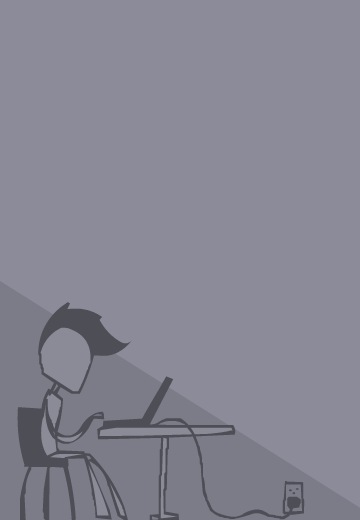
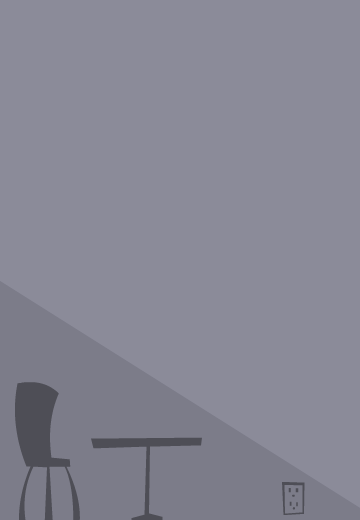
Coffeehouse graphics

Changed region(s): [[0.0306, 0.5846, 0.8556, 1.0], [0.1222, 0.9231, 0.1528, 1.0], [0.0611, 0.8923, 0.0917, 0.9538]]

diff --git a/js/game/menu.js b/js/game/menu.js
@@ -2,7 +2,13 @@ function Start(){
 
 	$ = {};
 	
+	/////// SET UP SCENE ////////
+
 	Show("background","coffeehouse");
+	Show("cup","cup_steam",{x:44,y:359});
+	Show("nicky","coffee_nicky_still");
+
+	//////////////////////////////
 
 	N("<b>COMING OUT SIMULATOR 2014</b>");
 	N("A half-true game about half-truths.");
@@ -23,7 +29,13 @@ function Start(){
 
 function Play(message){
 	
+	Show("nicky","coffee_nicky_drink");
+	Show("cup",null);
+
 	p(message);
+
+	Show("nicky","coffee_nicky_still");
+	Show("cup","cup_steam");
 
 	// Asked neither
 	if(!$.asked_about && !$.asked_credits){
@@ -58,11 +70,11 @@ function Play(message){
 			N("No.");
 			Play_2();
 		},
-		"Apparently, with you on a laptop.": function(message){
+		"Apparently, with you redditing at Starbucks.": function(message){
 			$.main_menu_convo_1 = 2;
 
 			p(message);
-			N("Hey, I'm busy transforming my personal coming-of-age story into this game you're playing right now.");
+			N("Hey, I'm coding on this laptop. Turning my coming-of-age story into the game you're playing right now.");
 			p("Naw, you're probably procrastinating.");
 			N("Look who's talking.");
 			p("Touché, douché.");
@@ -145,8 +157,25 @@ function Play_3(){
 	}
 	N(whatISay);
 
+	Show("nicky","coffee_nicky_drink");
+	Show("cup",null);
+
 	p("Hey, I just said that!");
 
+	// HACK - Just clear dialogue & stuff.
+	queue(function(){
+		dialogueDOM.innerHTML = "";
+		dialogueDOM.style.top = "20px";
+		dialogueDOMOffset = 20;
+		choicesDOM.innerHTML = "";
+	},0);
+
+	Wait(500);
+	Show("nicky","coffee_nicky_throw");
+	Wait(1000);
+	Show("nicky","coffee_nicky_still_2");
+	Wait(500);
+	
 	N("When you play...");
 	N("Choose your words wisely.");
 	N("Every character will remember everything you say. Or don't say.");
@@ -164,12 +193,18 @@ function Play_3(){
 function Credits(message){
 
 	$.asked_credits = true;
+
+	Show("nicky","coffee_nicky_drink");
+	Show("cup",null);
 	
 	if($.asked_about){
 		p(message);
 	}else{
 		p("Who are you?");
 	}
+
+	Show("nicky","coffee_nicky_still");
+	Show("cup","cup_steam");
 	
 	N("Ah, how rude of me! Let me introduce myself.");
 	N("Hi, I'm Nicky Case.");
@@ -216,7 +251,13 @@ function About(message){
 
 	$.asked_about = true;
 
+	Show("nicky","coffee_nicky_drink");
+	Show("cup",null);
+
 	p(message);
+
+	Show("nicky","coffee_nicky_still");
+	Show("cup","cup_steam");
 
 	if($.asked_credits){
 		N("I wanted to tell my story.");

diff --git a/js/config/art.js b/js/config/art.js
@@ -1,6 +1,24 @@
 Background("coffeehouse","img/backgrounds/coffeehouse.png");
+Background("coffeehouse_2","img/backgrounds/coffeehouse_2.png");
+
 Background("bedroom","img/backgrounds/bedroom.png");
 Background("dinner","img/backgrounds/dinner.png");
+
+////////// COFFEE /////////////
+
+Still("coffee_nicky_still","img/stills/coffee_nicky_still.png");
+Still("coffee_nicky_still_2","img/stills/coffee_nicky_still_2.png");
+Still("coffee_nicky_drink","img/stills/coffee_nicky_drink.png");
+Still("coffee_nicky_throw","img/stills/coffee_nicky_throw.png");
+
+Sprite("cup_steam",{
+	src: "img/sprites/cup_steam.png",
+	width:80, height:80,
+	frames:4, fps:2
+});
+
+
+////////// DINNER /////////////
 
 Still("dinner_table","img/stills/dinner_table.png");
 Still("dinner_table_2","img/stills/dinner_table_2.png");

diff --git a/index.html b/index.html
@@ -59,29 +59,19 @@ window.onload = function(){
 	    "top_or_bottom": "bottom",
 	    "promise_silence": "no",
 	    
-	    /*"grounded": 0,
+	    "grounded": 0,
 	    "tried_talking_about_it": true,
 	    "father_oblivious": false,
 	    "punched": true,
 	    
 	    "told_jack": "school",
 	    "blame": "jack",
-	    "breaking_up_soon": true*/
+	    "breaking_up_soon": true
 
 	};
 
 	Q.all(_artPromises).then(function(){
-
-		Show("background","dinner");
-		Show("clock","clock_ticking",{x:155,y:294});
-		Show("clock_time","clock_1855",{x:155+5,y:294+37});
-		Show("nicky","dinner_nicky_sit",{x:0,y:300});
-		Show("dad",null,{x:0,y:300});
-		Show("mom",null,{x:0,y:300});
-		Show("table","dinner_table",{x:0,y:420});
-
-		Start_Dinner_5();
-
+		Start_Outro();
 	});
 
 };

diff --git a/js/game/outro.js b/js/game/outro.js
@@ -5,10 +5,16 @@
 
 function Start_Outro(){
 
-	queue(function(){
-		publish("clear",[]);
-	},0);
-	Show("background","coffeehouse");
+	// Just clear dialogue & stuff.
+	queue(function(){ publish("clear",[]); },0);
+	
+	/////// SET UP SCENE ////////
+
+	Show("background","coffeehouse_2");
+	Show("cup","cup_steam",{x:44,y:359});
+	Show("nicky","coffee_nicky_still");
+
+	///////////////////////////////
 
 	if($.breaking_up_soon){
 		N("And then we broke up three days later.");
@@ -443,6 +449,9 @@ function Finale_3(message){
 	N("I won.");
 	N(". . .");
 	N("I won.");
+
+	// Just clear dialogue & stuff.
+	queue(function(){ publish("clear",[]); },0);
 
 	Choose({
 		"REPLAY?": Finale_4

diff --git a/js/core/ChooseView.js b/js/core/ChooseView.js
@@ -127,7 +127,7 @@ subscribe("show", function(label, artLabel, position){
 				ticks = (ticks+1) % ticksPerFrame;
 				if(ticks==0){
 					item.frame = (item.frame+1) % image.frames;
-					var bgX = item.frame*image.width;
+					var bgX = -item.frame*image.width;
 					var bgY = 0;
 					dom.style.backgroundPosition = bgX+"px "+bgY+"px";
 				}
